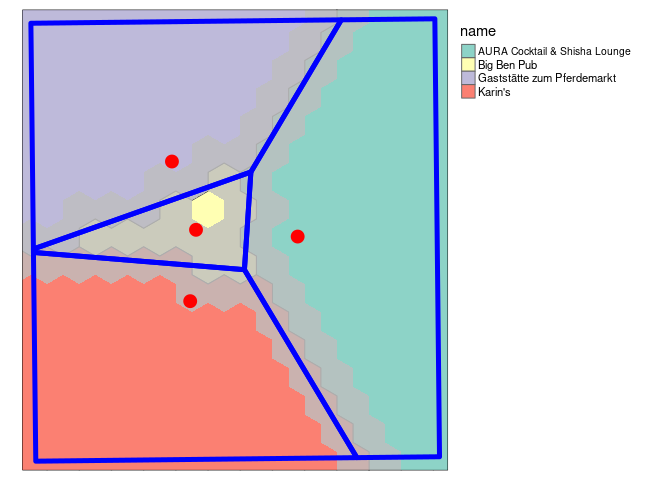
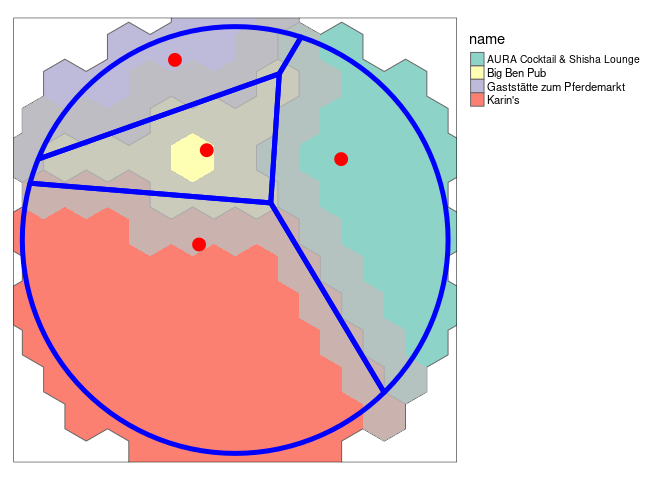
Update with nice network cleaning

diff --git a/README.md b/README.md
@@ -87,90 +87,120 @@ We’ll prepare the OSM network for routing.
 
 # Routing with sfnetworks
 
-``` r
-net_linestrings = sf::st_cast(walking_network, "LINESTRING")
-net_groups = stplanr::rnet_group(net_linestrings)
-largest_group = table(net_groups) |> which.max()
-net_clean = net_linestrings[net_groups == largest_group, ]
-net_sfn = sfnetworks::as_sfnetwork(net_clean, directed = FALSE)
-net_igraph = igraph::as.igraph(net_sfn)
-net_sf = net_sfn |> 
-  sfnetworks::activate("edges") |> 
-  dplyr::mutate(from, to, TRAVEL_COST = units::drop_units(sfnetworks::edge_length())) |> 
-  sf::st_as_sf() |> 
-  dplyr::select(from, to, TRAVEL_COST)
-plot(net_sf)
-```
+We’ll start by demonstrating how the package works with the sample
+dataset.
+
+    Simple feature collection with 851 features and 2 fields
+    Geometry type: LINESTRING
+    Dimension:     XY
+    Bounding box:  xmin: 7.522594 ymin: 51.94151 xmax: 7.546705 ymax: 51.9612
+    Geodetic CRS:  WGS 84
+    # A tibble: 851 × 3
+       name                  type                                           geometry
+     * <chr>                 <fct>                                  <LINESTRING [°]>
+     1 Havixbecker Strasse   residential      (7.533722 51.95556, 7.533461 51.95576)
+     2 Pienersallee          secondary   (7.532442 51.95422, 7.53236 51.95377, 7.53…
+     3 Schulte-Bernd-Strasse residential (7.532709 51.95209, 7.532823 51.95239, 7.5…
+     4 <NA>                  path        (7.540063 51.94468, 7.539696 51.94479, 7.5…
+     5 Welsingheide          residential       (7.537673 51.9475, 7.537614 51.94562)
+     6 <NA>                  footway     (7.543791 51.94733, 7.54369 51.94686, 7.54…
+     7 <NA>                  footway           (7.54012 51.94478, 7.539931 51.94514)
+     8 <NA>                  path        (7.53822 51.94546, 7.538131 51.94549, 7.53…
+     9 <NA>                  track       (7.540063 51.94468, 7.540338 51.94468, 7.5…
+    10 <NA>                  track       (7.5424 51.94599, 7.54205 51.94629, 7.5419…
+    # ℹ 841 more rows
 
 ![](README_files/figure-commonmark/unnamed-chunk-8-1.png)
+
+We’ll calculate the route from point 1 to point 2:
+
+![](README_files/figure-commonmark/unnamed-chunk-9-1.png)
+
+We can calculate many routes as follows:
+
+    [1] "tbl_df"     "tbl"        "data.frame"
+
+    Simple feature collection with 9 features and 6 fields
+    Geometry type: LINESTRING
+    Dimension:     XY
+    Bounding box:  xmin: 7.525638 ymin: 51.94607 xmax: 7.53265 ymax: 51.94883
+    Geodetic CRS:  WGS 84
+    # A tibble: 9 × 7
+       from    to name         type                     geometry weight route_number
+      <int> <int> <chr>        <fct>            <LINESTRING [°]>    [m]        <int>
+    1    67    68 <NA>         path    (7.527863 51.94883, 7.52… 282.              1
+    2    68   181 <NA>         path    (7.531646 51.94785, 7.53…  62.4             1
+    3   181   195 <NA>         path    (7.532444 51.94758, 7.53…  15.9             1
+    4   439   440 Pienersallee second… (7.525749 51.94671, 7.52…  12.1             1
+    5    67   194 Pienersallee second… (7.527863 51.94883, 7.52… 102.              1
+    6   440   565 Pienersallee second… (7.525659 51.94662, 7.52…  15.4             1
+    7   565   667 Pienersallee second… (7.52564 51.94648, 7.525…  54.8             1
+    8   194   646 Pienersallee second… (7.527087 51.94805, 7.52… 165.              1
+    9   439   646 Pienersallee second… (7.525816 51.94679, 7.52…   9.45            1
+
+![](README_files/figure-commonmark/unnamed-chunk-11-1.png)
+
+We can calculate the amount of travel on each link as follows:
+
+![](README_files/figure-commonmark/unnamed-chunk-12-1.png)
+
+``` r
+net_linestrings = sf::st_cast(walking_network, "LINESTRING")
+net = sfnetworks::as_sfnetwork(net_linestrings, directed = FALSE)
+library(tidygraph)
+with_graph(net, graph_component_count())
+```
+
+    [1] 623
+
+``` r
+net = net |>
+  activate("edges") |>
+  mutate(weight = edge_length()) |>
+  activate("nodes") |>
+  filter(group_components() == 1)
+with_graph(net, graph_component_count())
+```
+
+    [1] 1
+
+``` r
+net_sf = net |> 
+  sfnetworks::activate("edges") |> 
+  sf::st_as_sf() |> 
+  dplyr::select(from, to, weight)
+nrow(net_sf)
+```
+
+    [1] 763
+
+``` r
+nrow(walking_network)
+```
+
+    [1] 1732
+
+``` r
+tm_shape(walking_network) + tm_lines("grey", lwd = 5) +
+  tm_shape(net_sf) + tm_lines("blue", lwd = 2) 
+```
+
+![](README_files/figure-commonmark/unnamed-chunk-13-1.png)
 
 We’ll start by calculating routes from the first `voronoi_hex_boundary`
 cell to the nearest point.
 
-    [[1]]
-     [1] 1548 1549 1550 1551  670 1565 1558 1564 1563 1559 1529 1528 1570 1569   82
-    [16] 1637 1638  236  802   67
+![](README_files/figure-commonmark/unnamed-chunk-14-1.png)
 
-![](README_files/figure-commonmark/unnamed-chunk-9-1.png)
+    $tm_layout
+    $tm_layout$legend.outside
+    [1] TRUE
+
+    $tm_layout$style
+    [1] NA
+
+
+    attr(,"class")
+    [1] "tm"
 
 # Routing with cppRouting
-
-``` r
-net_df = net_sf |> 
-  sf::st_drop_geometry()
-graph = cppRouting::makegraph(net_df)
-
-#| label: single-path
-head(graph$data)
-```
-
-      from  to      dist
-    1    0  76  63.02741
-    2    1 364 383.60190
-    3    2  85  14.04821
-    4    3 710  18.22150
-    5    4  34  27.57053
-    6    5 712  67.35609
-
-``` r
-head(graph$dict)
-```
-
-      ref id
-    1   1  0
-    2   3  1
-    3   5  2
-    4   7  3
-    5   9  4
-    6  11  5
-
-``` r
-str(graph)
-```
-
-    List of 5
-     $ data  :'data.frame': 1695 obs. of  3 variables:
-      ..$ from: int [1:1695] 0 1 2 3 4 5 6 7 8 9 ...
-      ..$ to  : int [1:1695] 76 364 85 710 34 712 1206 925 253 1265 ...
-      ..$ dist: num [1:1695] 63 383.6 14 18.2 27.6 ...
-     $ coords: NULL
-     $ nbnode: int 2190
-     $ dict  :'data.frame': 2190 obs. of  2 variables:
-      ..$ ref: chr [1:2190] "1" "3" "5" "7" ...
-      ..$ id : int [1:2190] 0 1 2 3 4 5 6 7 8 9 ...
-     $ attrib:List of 4
-      ..$ aux  : NULL
-      ..$ cap  : NULL
-      ..$ alpha: NULL
-      ..$ beta : NULL
-
-``` r
-# calculate routes with cppRouting
-
-# cppRouting::get_path_pair(graph, from[rep(1, nrow(to))], to)
-route_cpp = cppRouting::get_path_pair(graph, from_graph, to_graph)
-str(route_cpp)
-```
-
-    List of 1
-     $ 1244_113: chr(0) 
